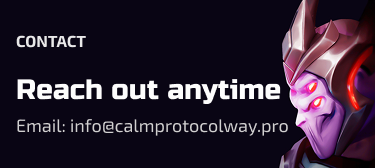
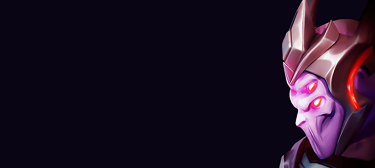
Done contact and deleted unnecessary files

Changed region(s): [[0.0293, 0.4464, 0.7627, 0.625], [0.0293, 0.7143, 0.792, 0.8036], [0.0293, 0.2083, 0.2347, 0.2976]]

diff --git a/src/css/contact.css b/src/css/contact.css
@@ -1,0 +1,76 @@
+.contact {
+  min-width: 320px;
+  width: 100%;
+  background-image: url('../img/contact/contact-img-mobile.png');
+  background-size: cover;
+  background-position: center;
+  margin: 0 auto;
+}
+
+.contact-container {
+  display: flex;
+  flex-direction: column;
+  padding: 32px 0px 32px 16px;
+  margin: 0 auto;
+}
+
+.contact-header {
+  margin-bottom: 8px;
+}
+
+.contact-title {
+  font-family: var(--font-family);
+  font-weight: 700;
+  font-size: 16px;
+  line-height: 110%;
+  letter-spacing: 0em;
+  text-transform: uppercase;
+  color: var(--light-grey);
+  margin-bottom: 24px;
+}
+
+.contact-subtitle {
+  font-family: var(--second-family);
+  font-weight: 400;
+  font-size: 28px;
+  line-height: 110%;
+  letter-spacing: 0em;
+  color: var(--white);
+}
+
+.contact-email {
+  font-family: var(--font-family);
+  font-weight: 400;
+  font-size: 18px;
+  line-height: 130%;
+  letter-spacing: 0em;
+  color: var(--grey);
+}
+
+@media screen and (min-width: 1200px) {
+  .contact {
+    background-image: url('../img/contact/contact-img-desktop.png');
+    max-width: 1440px;
+  }
+
+  .contact-container {
+    padding: 56px 112px;
+  }
+
+  .contact-header {
+    margin-bottom: 32px;
+  }
+
+  .contact-title {
+    font-size: 24px;
+    margin-bottom: 40px;
+  }
+
+  .contact-subtitle {
+    font-size: 48px;
+  }
+
+  .contact-email {
+    font-size: 32px;
+  }
+}

diff --git a/src/partials/contact.html b/src/partials/contact.html
@@ -1,0 +1,11 @@
+<section class="contact">
+  <div class="contact-container">
+    <div class="contact-header">
+      <h1 class="contact-title">Contact</h1>
+      <h2 class="contact-subtitle">Reach out anytime</h2>
+    </div>
+    <a class="contact-email" href="mailto:info@calmprotocolway.pro">
+      Email: info@calmprotocolway.pro
+    </a>
+  </div>
+</section>

diff --git a/src/index.html b/src/index.html
@@ -18,8 +18,7 @@
 
     <main>
       <!-- Loads the specified .html file -->
-      <load src="./partials/vite-promo.html" />
-      <load src="./partials/badges.html" />
+      <load src="./partials/contact.html" />
     </main>
 
     <load src="./partials/footer.html" />

diff --git a/src/css/container.css b/src/css/container.css
@@ -1,13 +1,12 @@
 /* Styles for Mobile devices */
 .container {
   min-width: 320px;
-  max-width: 375px;
+  width: 100%;
   margin: 0 auto;
   padding: 32px 16px;
 }
 
 .container {
-  width: 100%;
 }
 
 /* Styles for Desktop devices */

diff --git a/src/css/styles.css b/src/css/styles.css
@@ -15,5 +15,6 @@
 @import url('./vite-promo.css');
 @import url('./badges.css');
 @import url('./back-link.css');
+@import url('./contact.css');
 @import url('./header-page.css');
 @import url('./footer.css');

diff --git a/src/css/base.css b/src/css/base.css
@@ -19,8 +19,8 @@
 body {
   display: flex;
   flex-direction: column;
-  min-width: 100vw;
-  min-height: 100vh;
+  min-width: 100%;
+  min-height: 100%;
   margin: 0;
 }
 
